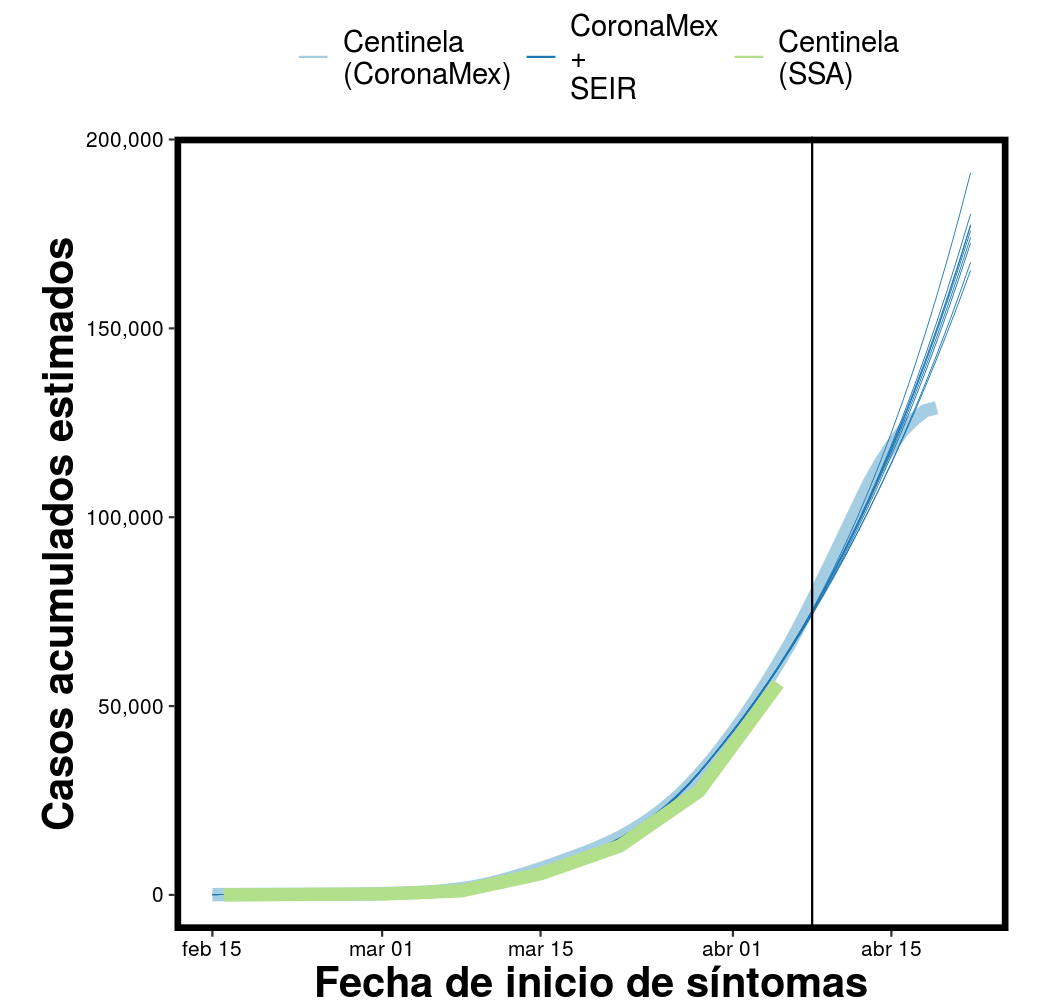
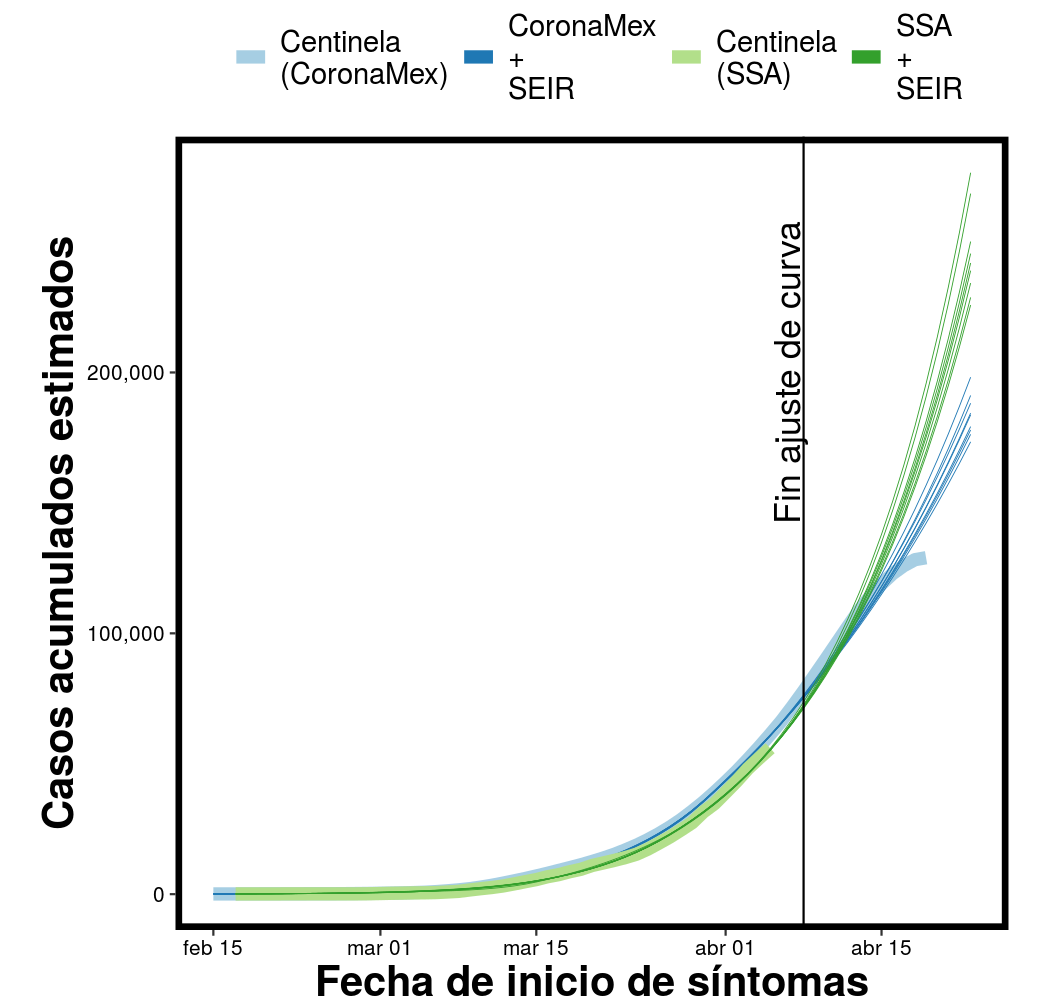
Centinela + SEIR

diff --git a/etiquetas/casos/index.html b/etiquetas/casos/index.html
@@ -422,7 +422,7 @@
             <p class="lead">
               <p>El sistema Centinela es similar a una encuesta y permite estimar el número de casos reales del COVID-19 aún sin diagnosticar a todos los contagiados. Los estimados oficiales se publican con dos semanas de retraso, y el estimado oficial más reciente es de <a href="https://youtu.be/So48LCI6tSY?t=1349" target="_blank"> la semana epidemiológica 14 (3 de abril)</a>. Como la epidemia sigue creciendo, el número de casos el día de hoy actual debe ser mayor.</p>
 <p>La Secretaría de Salud (SSA) no publica todos los elementos necesarios para reproducir sus estimados, así que hago algunas simplificaciones para llegar a un resultado similar. Esto nos permite producir estimados en fechas más recientes. Todos los valores en esta gráfica se calculan <a href="https://github.com/coronamex/visualizando/blob/master/casos/centinela_preliminar.r" target="_blank">con este código</a>.</p>
-<p>Finalmente, podemos combinar los números del sistema Centinela con un <a href="../../casos#sir">modelo SEIR</a> para corregir por el retraso en la detección de casos y estimar el número de real casos el día de hoy.</p>
+<p>Finalmente, podemos combinar los números del sistema Centinela con un <a href="../../casos#sir">modelo SEIR</a> para corregir por el retraso en la detección de casos y estimar el número de real casos el día de hoy. Como los números de la SSA son más antiguos, el modelo SEIR no captura la desaceleración más reciente de la epidemia.</p>
             </p>
               
           </div>

diff --git a/etiquetas/centinela/index.html b/etiquetas/centinela/index.html
@@ -330,7 +330,7 @@
             <p class="lead">
               <p>El sistema Centinela es similar a una encuesta y permite estimar el número de casos reales del COVID-19 aún sin diagnosticar a todos los contagiados. Los estimados oficiales se publican con dos semanas de retraso, y el estimado oficial más reciente es de <a href="https://youtu.be/So48LCI6tSY?t=1349" target="_blank"> la semana epidemiológica 14 (3 de abril)</a>. Como la epidemia sigue creciendo, el número de casos el día de hoy actual debe ser mayor.</p>
 <p>La Secretaría de Salud (SSA) no publica todos los elementos necesarios para reproducir sus estimados, así que hago algunas simplificaciones para llegar a un resultado similar. Esto nos permite producir estimados en fechas más recientes. Todos los valores en esta gráfica se calculan <a href="https://github.com/coronamex/visualizando/blob/master/casos/centinela_preliminar.r" target="_blank">con este código</a>.</p>
-<p>Finalmente, podemos combinar los números del sistema Centinela con un <a href="../../casos#sir">modelo SEIR</a> para corregir por el retraso en la detección de casos y estimar el número de real casos el día de hoy.</p>
+<p>Finalmente, podemos combinar los números del sistema Centinela con un <a href="../../casos#sir">modelo SEIR</a> para corregir por el retraso en la detección de casos y estimar el número de real casos el día de hoy. Como los números de la SSA son más antiguos, el modelo SEIR no captura la desaceleración más reciente de la epidemia.</p>
             </p>
               
           </div>

diff --git a/etiquetas/estimado/index.html b/etiquetas/estimado/index.html
@@ -376,7 +376,7 @@
             <p class="lead">
               <p>El sistema Centinela es similar a una encuesta y permite estimar el número de casos reales del COVID-19 aún sin diagnosticar a todos los contagiados. Los estimados oficiales se publican con dos semanas de retraso, y el estimado oficial más reciente es de <a href="https://youtu.be/So48LCI6tSY?t=1349" target="_blank"> la semana epidemiológica 14 (3 de abril)</a>. Como la epidemia sigue creciendo, el número de casos el día de hoy actual debe ser mayor.</p>
 <p>La Secretaría de Salud (SSA) no publica todos los elementos necesarios para reproducir sus estimados, así que hago algunas simplificaciones para llegar a un resultado similar. Esto nos permite producir estimados en fechas más recientes. Todos los valores en esta gráfica se calculan <a href="https://github.com/coronamex/visualizando/blob/master/casos/centinela_preliminar.r" target="_blank">con este código</a>.</p>
-<p>Finalmente, podemos combinar los números del sistema Centinela con un <a href="../../casos#sir">modelo SEIR</a> para corregir por el retraso en la detección de casos y estimar el número de real casos el día de hoy.</p>
+<p>Finalmente, podemos combinar los números del sistema Centinela con un <a href="../../casos#sir">modelo SEIR</a> para corregir por el retraso en la detección de casos y estimar el número de real casos el día de hoy. Como los números de la SSA son más antiguos, el modelo SEIR no captura la desaceleración más reciente de la epidemia.</p>
             </p>
               
           </div>

diff --git a/etiquetas/nacional/index.html b/etiquetas/nacional/index.html
@@ -491,7 +491,7 @@
             <p class="lead">
               <p>El sistema Centinela es similar a una encuesta y permite estimar el número de casos reales del COVID-19 aún sin diagnosticar a todos los contagiados. Los estimados oficiales se publican con dos semanas de retraso, y el estimado oficial más reciente es de <a href="https://youtu.be/So48LCI6tSY?t=1349" target="_blank"> la semana epidemiológica 14 (3 de abril)</a>. Como la epidemia sigue creciendo, el número de casos el día de hoy actual debe ser mayor.</p>
 <p>La Secretaría de Salud (SSA) no publica todos los elementos necesarios para reproducir sus estimados, así que hago algunas simplificaciones para llegar a un resultado similar. Esto nos permite producir estimados en fechas más recientes. Todos los valores en esta gráfica se calculan <a href="https://github.com/coronamex/visualizando/blob/master/casos/centinela_preliminar.r" target="_blank">con este código</a>.</p>
-<p>Finalmente, podemos combinar los números del sistema Centinela con un <a href="../../casos#sir">modelo SEIR</a> para corregir por el retraso en la detección de casos y estimar el número de real casos el día de hoy.</p>
+<p>Finalmente, podemos combinar los números del sistema Centinela con un <a href="../../casos#sir">modelo SEIR</a> para corregir por el retraso en la detección de casos y estimar el número de real casos el día de hoy. Como los números de la SSA son más antiguos, el modelo SEIR no captura la desaceleración más reciente de la epidemia.</p>
             </p>
               
           </div>

diff --git a/etiquetas/síntomas/index.html b/etiquetas/síntomas/index.html
@@ -376,7 +376,7 @@
             <p class="lead">
               <p>El sistema Centinela es similar a una encuesta y permite estimar el número de casos reales del COVID-19 aún sin diagnosticar a todos los contagiados. Los estimados oficiales se publican con dos semanas de retraso, y el estimado oficial más reciente es de <a href="https://youtu.be/So48LCI6tSY?t=1349" target="_blank"> la semana epidemiológica 14 (3 de abril)</a>. Como la epidemia sigue creciendo, el número de casos el día de hoy actual debe ser mayor.</p>
 <p>La Secretaría de Salud (SSA) no publica todos los elementos necesarios para reproducir sus estimados, así que hago algunas simplificaciones para llegar a un resultado similar. Esto nos permite producir estimados en fechas más recientes. Todos los valores en esta gráfica se calculan <a href="https://github.com/coronamex/visualizando/blob/master/casos/centinela_preliminar.r" target="_blank">con este código</a>.</p>
-<p>Finalmente, podemos combinar los números del sistema Centinela con un <a href="../../casos#sir">modelo SEIR</a> para corregir por el retraso en la detección de casos y estimar el número de real casos el día de hoy.</p>
+<p>Finalmente, podemos combinar los números del sistema Centinela con un <a href="../../casos#sir">modelo SEIR</a> para corregir por el retraso en la detección de casos y estimar el número de real casos el día de hoy. Como los números de la SSA son más antiguos, el modelo SEIR no captura la desaceleración más reciente de la epidemia.</p>
             </p>
               
           </div>

diff --git a/secciones/casos/index.html b/secciones/casos/index.html
@@ -376,7 +376,7 @@
             <p class="lead">
               <p>El sistema Centinela es similar a una encuesta y permite estimar el número de casos reales del COVID-19 aún sin diagnosticar a todos los contagiados. Los estimados oficiales se publican con dos semanas de retraso, y el estimado oficial más reciente es de <a href="https://youtu.be/So48LCI6tSY?t=1349" target="_blank"> la semana epidemiológica 14 (3 de abril)</a>. Como la epidemia sigue creciendo, el número de casos el día de hoy actual debe ser mayor.</p>
 <p>La Secretaría de Salud (SSA) no publica todos los elementos necesarios para reproducir sus estimados, así que hago algunas simplificaciones para llegar a un resultado similar. Esto nos permite producir estimados en fechas más recientes. Todos los valores en esta gráfica se calculan <a href="https://github.com/coronamex/visualizando/blob/master/casos/centinela_preliminar.r" target="_blank">con este código</a>.</p>
-<p>Finalmente, podemos combinar los números del sistema Centinela con un <a href="../../casos#sir">modelo SEIR</a> para corregir por el retraso en la detección de casos y estimar el número de real casos el día de hoy.</p>
+<p>Finalmente, podemos combinar los números del sistema Centinela con un <a href="../../casos#sir">modelo SEIR</a> para corregir por el retraso en la detección de casos y estimar el número de real casos el día de hoy. Como los números de la SSA son más antiguos, el modelo SEIR no captura la desaceleración más reciente de la epidemia.</p>
             </p>
               
           </div>

diff --git a/secciones/principal/index.html b/secciones/principal/index.html
@@ -445,7 +445,7 @@
             <p class="lead">
               <p>El sistema Centinela es similar a una encuesta y permite estimar el número de casos reales del COVID-19 aún sin diagnosticar a todos los contagiados. Los estimados oficiales se publican con dos semanas de retraso, y el estimado oficial más reciente es de <a href="https://youtu.be/So48LCI6tSY?t=1349" target="_blank"> la semana epidemiológica 14 (3 de abril)</a>. Como la epidemia sigue creciendo, el número de casos el día de hoy actual debe ser mayor.</p>
 <p>La Secretaría de Salud (SSA) no publica todos los elementos necesarios para reproducir sus estimados, así que hago algunas simplificaciones para llegar a un resultado similar. Esto nos permite producir estimados en fechas más recientes. Todos los valores en esta gráfica se calculan <a href="https://github.com/coronamex/visualizando/blob/master/casos/centinela_preliminar.r" target="_blank">con este código</a>.</p>
-<p>Finalmente, podemos combinar los números del sistema Centinela con un <a href="../../casos#sir">modelo SEIR</a> para corregir por el retraso en la detección de casos y estimar el número de real casos el día de hoy.</p>
+<p>Finalmente, podemos combinar los números del sistema Centinela con un <a href="../../casos#sir">modelo SEIR</a> para corregir por el retraso en la detección de casos y estimar el número de real casos el día de hoy. Como los números de la SSA son más antiguos, el modelo SEIR no captura la desaceleración más reciente de la epidemia.</p>
             </p>
               
           </div>

diff --git a/casos/index.html b/casos/index.html
@@ -376,7 +376,7 @@
             <p class="lead">
               <p>El sistema Centinela es similar a una encuesta y permite estimar el número de casos reales del COVID-19 aún sin diagnosticar a todos los contagiados. Los estimados oficiales se publican con dos semanas de retraso, y el estimado oficial más reciente es de <a href="https://youtu.be/So48LCI6tSY?t=1349" target="_blank"> la semana epidemiológica 14 (3 de abril)</a>. Como la epidemia sigue creciendo, el número de casos el día de hoy actual debe ser mayor.</p>
 <p>La Secretaría de Salud (SSA) no publica todos los elementos necesarios para reproducir sus estimados, así que hago algunas simplificaciones para llegar a un resultado similar. Esto nos permite producir estimados en fechas más recientes. Todos los valores en esta gráfica se calculan <a href="https://github.com/coronamex/visualizando/blob/master/casos/centinela_preliminar.r" target="_blank">con este código</a>.</p>
-<p>Finalmente, podemos combinar los números del sistema Centinela con un <a href="../casos#sir">modelo SEIR</a> para corregir por el retraso en la detección de casos y estimar el número de real casos el día de hoy.</p>
+<p>Finalmente, podemos combinar los números del sistema Centinela con un <a href="../casos#sir">modelo SEIR</a> para corregir por el retraso en la detección de casos y estimar el número de real casos el día de hoy. Como los números de la SSA son más antiguos, el modelo SEIR no captura la desaceleración más reciente de la epidemia.</p>
             </p>
               
           </div>

diff --git a/index.html b/index.html
@@ -408,7 +408,7 @@
             <p class="lead">
               <p>El sistema Centinela es similar a una encuesta y permite estimar el número de casos reales del COVID-19 aún sin diagnosticar a todos los contagiados. Los estimados oficiales se publican con dos semanas de retraso, y el estimado oficial más reciente es de <a href="https://youtu.be/So48LCI6tSY?t=1349" target="_blank"> la semana epidemiológica 14 (3 de abril)</a>. Como la epidemia sigue creciendo, el número de casos el día de hoy actual debe ser mayor.</p>
 <p>La Secretaría de Salud (SSA) no publica todos los elementos necesarios para reproducir sus estimados, así que hago algunas simplificaciones para llegar a un resultado similar. Esto nos permite producir estimados en fechas más recientes. Todos los valores en esta gráfica se calculan <a href="https://github.com/coronamex/visualizando/blob/master/casos/centinela_preliminar.r" target="_blank">con este código</a>.</p>
-<p>Finalmente, podemos combinar los números del sistema Centinela con un <a href="./casos#sir">modelo SEIR</a> para corregir por el retraso en la detección de casos y estimar el número de real casos el día de hoy.</p>
+<p>Finalmente, podemos combinar los números del sistema Centinela con un <a href="./casos#sir">modelo SEIR</a> para corregir por el retraso en la detección de casos y estimar el número de real casos el día de hoy. Como los números de la SSA son más antiguos, el modelo SEIR no captura la desaceleración más reciente de la epidemia.</p>
             </p>
               
           </div>

diff --git a/casos/sir_centinela/index.html b/casos/sir_centinela/index.html
@@ -323,7 +323,7 @@
           <p class="lead">
             <p>El sistema Centinela es similar a una encuesta y permite estimar el número de casos reales del COVID-19 aún sin diagnosticar a todos los contagiados. Los estimados oficiales se publican con dos semanas de retraso, y el estimado oficial más reciente es de <a href="https://youtu.be/So48LCI6tSY?t=1349" target="_blank"> la semana epidemiológica 14 (3 de abril)</a>. Como la epidemia sigue creciendo, el número de casos el día de hoy actual debe ser mayor.</p>
 <p>La Secretaría de Salud (SSA) no publica todos los elementos necesarios para reproducir sus estimados, así que hago algunas simplificaciones para llegar a un resultado similar. Esto nos permite producir estimados en fechas más recientes. Todos los valores en esta gráfica se calculan <a href="https://github.com/coronamex/visualizando/blob/master/casos/centinela_preliminar.r" target="_blank">con este código</a>.</p>
-<p>Finalmente, podemos combinar los números del sistema Centinela con un <a href="../../casos#sir">modelo SEIR</a> para corregir por el retraso en la detección de casos y estimar el número de real casos el día de hoy.</p>
+<p>Finalmente, podemos combinar los números del sistema Centinela con un <a href="../../casos#sir">modelo SEIR</a> para corregir por el retraso en la detección de casos y estimar el número de real casos el día de hoy. Como los números de la SSA son más antiguos, el modelo SEIR no captura la desaceleración más reciente de la epidemia.</p>
           </p>
             
         </div>
